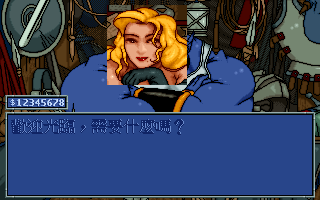
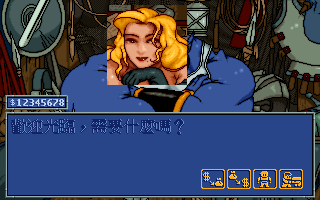
remake: restore native shop service menu

Changed region(s): [[0.625, 0.84, 0.9688, 0.96]]

diff --git a/remake/internal/campaign/native_shop_service_menu.go b/remake/internal/campaign/native_shop_service_menu.go
@@ -1,0 +1,65 @@
+package campaign
+
+import "errors"
+
+const nativeShopServiceBaseOffset = 0xd430
+
+var nativeShopServiceDisplacements = [4]int{-39, -13, 13, 39}
+
+// ComposeNativeShopServiceOpeningFrame reproduces one of 0x2d669's four
+// option-spread frames. Step zero is nearest the common anchor; step three
+// reaches the native steady destinations. All four entries use their odd
+// (normal) resource variants exactly as the opening loop does.
+func ComposeNativeShopServiceOpeningFrame(
+	stable []byte,
+	assets *NativeShopAssets,
+	step int,
+) ([]byte, error) {
+	if len(stable) != NativeShopWidth*NativeShopHeight || assets == nil ||
+		step < 0 || step > 3 {
+		return nil, errors.New("campaign: native shop service opening state is invalid")
+	}
+	frame := append([]byte(nil), stable...)
+	divisor := 4 - step
+	baseX := nativeShopServiceBaseOffset % NativeShopWidth
+	baseY := nativeShopServiceBaseOffset / NativeShopWidth
+	for option := 0; option < 4; option++ {
+		x := baseX + nativeShopServiceDisplacements[option]/divisor
+		if err := assets.ServiceCells[option][0].BlitAt(
+			frame, NativeShopWidth, x, baseY,
+		); err != nil {
+			return nil, err
+		}
+	}
+	return frame, nil
+}
+
+// ComposeNativeShopServiceSteadyFrame reproduces 0x2d9fe's selected-option
+// redraw on the fully spread menu. Native phase/2 selects the odd normal cell
+// for phases 0..1 and the adjacent even selected cell for phases 2..3.
+func ComposeNativeShopServiceSteadyFrame(
+	stable []byte,
+	assets *NativeShopAssets,
+	selected, phase int,
+) ([]byte, error) {
+	if len(stable) != NativeShopWidth*NativeShopHeight || assets == nil ||
+		selected < 0 || selected >= 4 || phase < 0 || phase >= 4 {
+		return nil, errors.New("campaign: native shop service steady state is invalid")
+	}
+	frame := append([]byte(nil), stable...)
+	baseX := nativeShopServiceBaseOffset % NativeShopWidth
+	baseY := nativeShopServiceBaseOffset / NativeShopWidth
+	for option := 0; option < 4; option++ {
+		variant := 0
+		if option == selected {
+			variant = phase / 2
+		}
+		x := baseX + nativeShopServiceDisplacements[option]
+		if err := assets.ServiceCells[option][variant].BlitAt(
+			frame, NativeShopWidth, x, baseY,
+		); err != nil {
+			return nil, err
+		}
+	}
+	return frame, nil
+}

diff --git a/remake/internal/campaign/native_shop_scene_test.go b/remake/internal/campaign/native_shop_scene_test.go
@@ -97,6 +97,54 @@ func TestComposeNativeShopSceneUsesOriginalStableResources(t *testing.T) {
 	if string(frame) == string(assets.Background) {
 		t.Fatal("stable shop overlays did not change the original background")
 	}
+	stableBefore := append([]byte(nil), frame...)
+	for step := 0; step < 4; step++ {
+		opening, err := ComposeNativeShopServiceOpeningFrame(frame, assets, step)
+		if err != nil {
+			t.Fatalf("service opening step %d: %v", step, err)
+		}
+		if len(opening) != NativeShopWidth*NativeShopHeight ||
+			string(opening) == string(frame) {
+			t.Fatalf("service opening step %d did not render", step)
+		}
+	}
+	normal, err := ComposeNativeShopServiceSteadyFrame(frame, assets, 0, 0)
+	if err != nil {
+		t.Fatal(err)
+	}
+	selected, err := ComposeNativeShopServiceSteadyFrame(frame, assets, 0, 2)
+	if err != nil {
+		t.Fatal(err)
+	}
+	if string(normal) == string(selected) {
+		t.Fatal("selected service pulse variant did not change the frame")
+	}
+	if string(frame) != string(stableBefore) {
+		t.Fatal("service compositors mutated the caller-owned stable frame")
+	}
+}
+
+func TestComposeNativeShopServiceMenuRejectsInvalidState(t *testing.T) {
+	stable := make([]byte, NativeShopWidth*NativeShopHeight)
+	assets := &NativeShopAssets{}
+	for _, call := range []func() error{
+		func() error {
+			_, err := ComposeNativeShopServiceOpeningFrame(stable, assets, -1)
+			return err
+		},
+		func() error {
+			_, err := ComposeNativeShopServiceSteadyFrame(stable, assets, 4, 0)
+			return err
+		},
+		func() error {
+			_, err := ComposeNativeShopServiceSteadyFrame(stable, assets, 0, 4)
+			return err
+		},
+	} {
+		if err := call(); err == nil {
+			t.Fatal("invalid native service-menu state was accepted")
+		}
+	}
 }
 
 func TestDecodeNativeShopAssetsRejectsUnselectedResource(t *testing.T) {

diff --git a/remake/internal/campaign/native_shop_scene.go b/remake/internal/campaign/native_shop_scene.go
@@ -31,10 +31,11 @@ var nativeFacilityPortraitOffsets = map[int]int{
 // one is the 0x4e8af opaque decoration. Later entries remain raw because
 // 0x2d669 draws selected odd entries through the distinct 0x4e9e4 primitive.
 type NativeShopAssets struct {
-	ResourceID int
-	Background []byte
-	Decoration fdother.LMI1Entry
-	RawEntries [][]byte
+	ResourceID   int
+	Background   []byte
+	Decoration   fdother.LMI1Entry
+	RawEntries   [][]byte
+	ServiceCells [4][2]fdother.RawCell
 }
 
 // DecodeNativeShopAssets accepts exactly the three resources selected by the
@@ -68,11 +69,25 @@ func DecodeNativeShopAssets(datPath string, resourceID int) (*NativeShopAssets, 
 	if err != nil {
 		return nil, fmt.Errorf("campaign: native shop decoration: %w", err)
 	}
+	var serviceCells [4][2]fdother.RawCell
+	for option := range serviceCells {
+		for variant := range serviceCells[option] {
+			entryIndex := 3 + option*2 + variant
+			serviceCells[option][variant], err = fdother.ParseRawCell(entries[entryIndex])
+			if err != nil {
+				return nil, fmt.Errorf(
+					"campaign: native shop service cell %d: %w",
+					entryIndex, err,
+				)
+			}
+		}
+	}
 	return &NativeShopAssets{
-		ResourceID: resourceID,
-		Background: background,
-		Decoration: decoration,
-		RawEntries: entries,
+		ResourceID:   resourceID,
+		Background:   background,
+		Decoration:   decoration,
+		RawEntries:   entries,
+		ServiceCells: serviceCells,
 	}, nil
 }
 

diff --git a/remake/internal/fdother/rawcells.go b/remake/internal/fdother/rawcells.go
@@ -14,6 +14,22 @@ type RawCell struct {
 	Pixels        []byte
 }
 
+// ParseRawCell decodes one width/height + width*height literal indexed cell.
+// It is the direct resource-entry form consumed by 0x4e9e4; palette index
+// zero remains transparent at blit time.
+func ParseRawCell(data []byte) (RawCell, error) {
+	if len(data) < 4 {
+		return RawCell{}, errors.New("fdother: raw cell is too short")
+	}
+	width := int(binary.LittleEndian.Uint16(data))
+	height := int(binary.LittleEndian.Uint16(data[2:]))
+	if width <= 0 || height <= 0 || width > (len(data)-4)/height {
+		return RawCell{}, errors.New("fdother: raw cell geometry is invalid")
+	}
+	pixels := append([]byte(nil), data[4:4+width*height]...)
+	return RawCell{Width: width, Height: height, Pixels: pixels}, nil
+}
+
 // DecodeRawCellResource reads a raw FDOTHER archive entry whose first u32 is
 // the byte end of a u32-offset directory. It deliberately does not try this
 // parser for LMI1 or frame-table resources.

diff --git a/remake/internal/fdother/rawcells_test.go b/remake/internal/fdother/rawcells_test.go
@@ -6,6 +6,36 @@ import (
 	"testing"
 )
 
+func TestParseRawCellLiteralTransparentPayload(t *testing.T) {
+	cell, err := ParseRawCell([]byte{3, 0, 1, 0, 1, 0, 2})
+	if err != nil {
+		t.Fatal(err)
+	}
+	if cell.Width != 3 || cell.Height != 1 ||
+		string(cell.Pixels) != string([]byte{1, 0, 2}) {
+		t.Fatalf("cell=%#v", cell)
+	}
+	dst := []byte{9, 9, 9, 9, 9}
+	if err := cell.BlitAt(dst, 5, 1, 0); err != nil {
+		t.Fatal(err)
+	}
+	if got, want := dst, []byte{9, 1, 9, 2, 9}; string(got) != string(want) {
+		t.Fatalf("blit=%v, want %v", got, want)
+	}
+}
+
+func TestParseRawCellRejectsTruncatedPayload(t *testing.T) {
+	for _, raw := range [][]byte{
+		nil,
+		{1, 0, 0, 0},
+		{2, 0, 1, 0, 7},
+	} {
+		if _, err := ParseRawCell(raw); err == nil {
+			t.Fatalf("malformed raw cell %#v was accepted", raw)
+		}
+	}
+}
+
 func rawCellBank(cells ...[]byte) []byte {
 	directoryEnd := len(cells) * 4
 	data := make([]byte, directoryEnd)

diff --git a/remake/cmd/fd2-shop-scene-oracle/main.go b/remake/cmd/fd2-shop-scene-oracle/main.go
@@ -1,7 +1,7 @@
 // Command fd2-shop-scene-oracle renders the recovered stable target of
 // 0x2E341+0x1956B from player-provided original indexed resources. The
 // deterministic fixture uses hub variant zero, DATO#129, gold=12345678,
-// and FDTXT_000 string #440.
+// FDTXT_000 string #440, and service option zero at native pulse phase two.
 package main
 
 import (
@@ -46,6 +46,8 @@ func main() {
 		assets, dialogue, digits, portraits[0], 0x81,
 		strings, font, 12345678, 0x1b8,
 	)
+	check(err)
+	frame, err = campaign.ComposeNativeShopServiceSteadyFrame(frame, assets, 0, 2)
 	check(err)
 	palette, err := fdother.ParseVGAPalette(mustResource(fdotherPath, 0))
 	check(err)

diff --git a/docs/knowledge-base/91-worklist.md b/docs/knowledge-base/91-worklist.md
@@ -9,7 +9,7 @@
 - [x] 逐項重審 title、field/HUD、action/target、dialogue、battle、postbattle、town、shop、church、preparation、save/load、ending；目前完整操作界面視覺還原估計35–40%，不能以75–85%的asset/codec完成度代替。
 - [x] README撤回將 `docs/figures/title.png`／`dialogue.png` 標成 remake runtime對照；兩張是raw decode／字型研究圖。
 - [ ] **UI-VIS-TOWN**：以原版服務場景／menu resources建立320×200 indexed town owner，取代戰場map上的generic半透明清單；補DOSBox同章同輸入E2。
-- [~] **UI-VIS-SHOP**：`0x2e341→0x1956b` stable scene 已還原店內背景、variant DATO portrait、dialogue grid、cell1 decoration、八位gold與FDTXT greeting，並產生 [`native-shop-scene-indexed.png`](../figures/native-shop-scene-indexed.png)。production仍是generic文字清單；下一 gate 是 `0x2d669→0x4e9e4` buy/sell icon menu、item/recipient lifecycle與DOSBox E2。
+- [~] **UI-VIS-SHOP**：`0x2e341→0x1956b` stable scene 已還原店內背景、variant DATO portrait、dialogue grid、cell1 decoration、八位gold與FDTXT greeting；`0x2d669→0x4e9e4/0x2d9fe` 四個service icons的四步spread與selected odd/even pulse亦已加入 [`native-shop-scene-indexed.png`](../figures/native-shop-scene-indexed.png)。production仍是generic文字清單；下一 gate 是四個callee語意、item/recipient lifecycle與DOSBox E2。
 - [ ] **UI-VIS-PREPARATION**：接LMI1 #0x52 slide、MAP/TURN與YES/NO原生畫面；checkbox panel不得再宣稱原版整備UI。
 - [ ] **UI-VIS-LOAD**：用原版四槽frame/cursor/metadata畫面取代現代字型loadslots panel，並以native save sandbox做有效槽E2。
 - [ ] **UI-VIS-DIFF-HARNESS**：固定同一FD2.SAV／roster／camera／cursor／tick，輸出DOSBox與remake 320×200 pair及pixel diff；現有ch01兩張角色狀態不同，只證明compositor slice。

diff --git a/docs/knowledge-base/SESSION-HANDOFF-2026-07-06.md b/docs/knowledge-base/SESSION-HANDOFF-2026-07-06.md
@@ -1297,3 +1297,12 @@ slot6 active 條件、SPAWN2、兩段 PAN、800/200ms 與 FDTXT_003 #4 七句也
   `0x2d669` 服務 entries 使用另一個 `0x4e9e4` primitive，因此保持 raw；
   production shop、圖示 transition/pulse、商品/recipient child panels與
   DOSBox E2 仍未完成，不把 stable fixture 宣稱為完整商店。
+- 2026-07-28 native shop service-menu E1 closure：Docker Capstone 固定
+  `0x4e9e4` 是 width×height raw literal、palette index0透明；`0x2d669`
+  以 entries3/5/7/9 畫四個normal icons，base `0xd430` 加
+  `[-39,-13,13,39]/(4-step)`，形成四步spread。`0x2d85f→0x2d9fe`
+  對selected option使用相鄰entry，phase/2在normal/selected間切換，
+  左右鍵selection 0..3循環。新增 strict raw-cell parser、opening/steady
+  compositor與三個FDOTHER variants真實資源 regression；成果圖已更新為
+  含四個icons與selected phase2。四個dispatch callee的玩法名稱、
+  production owner、child panels與E2仍保持partial。

diff --git a/docs/knowledge-base/99-reflections-log.md b/docs/knowledge-base/99-reflections-log.md
@@ -422,3 +422,11 @@ stable fixture。過程也抓到兩個若只看檔頭很容易犯的錯：
 其餘 service entries 保留 raw；這比「解得出一張看似合理的圖」更重要。
 目前畫面仍只是 opening 完成後的 stable target，不含服務圖示、輸入 pulse、
 商品／接收者子面板與 closing，所以 production owner 仍保持 partial。
+
+後續重讀 `0x2d669/0x2d9fe` 又證明「保留 raw」是正確決策：entries3–10
+不是前面 entry1 的 high-run opaque codec，而是 `0x4e9e4` 消費的
+width×height literal transparent cells。四個 normal/selected pairs 以
+`[-39,-13,13,39]` 做四步spread，selected cell再依phase/2切換。若上一輪
+為了讓所有entries都「成功decode」而放寬high-run parser，這批圖示很可能
+產生看似有圖、實際錯位或截斷的假成果。mixed scene的正確策略是讓direct
+caller決定每個entry的codec，而不是讓container magic決定。
